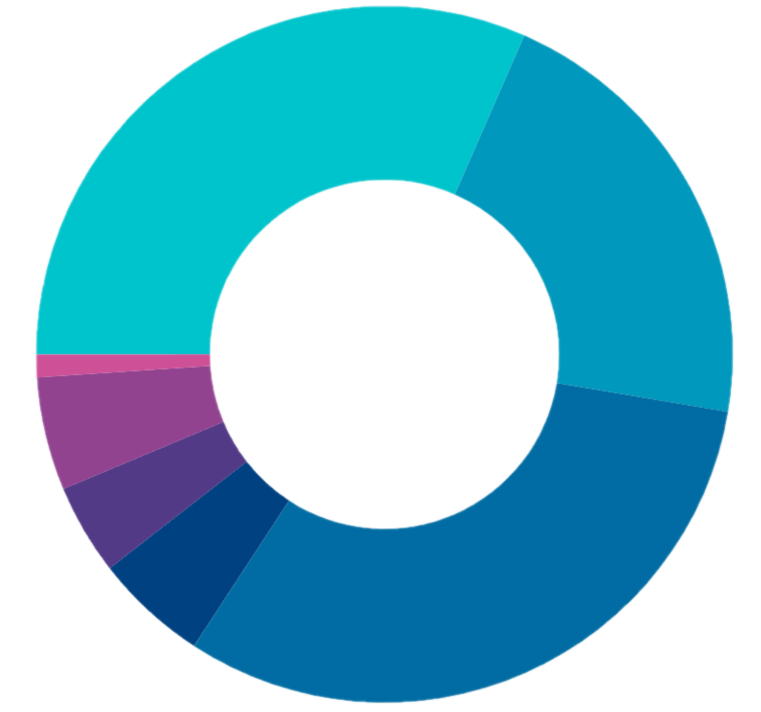
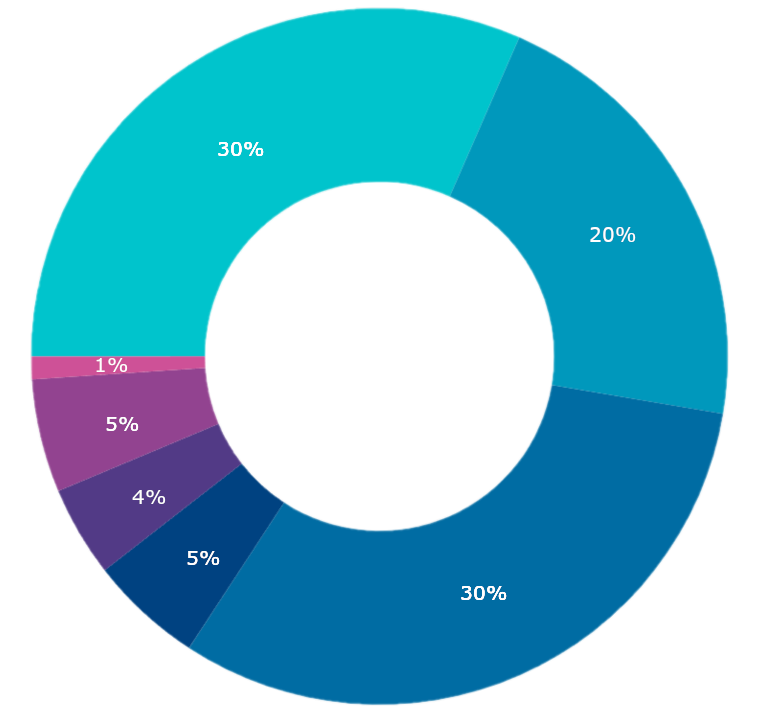
fix:[update]

diff --git a/components/Dividends.tsx b/components/Dividends.tsx
@@ -5,10 +5,49 @@ export const Dividends = (): JSX.Element => {
             <p className="w-10/12 mx-auto text-center ">Experience the joy of giving and receiving. Engage with our ecosystem, stake your
                 tokens, and earn dividends.
             </p>
-            <p className="text-center font-semibold text-2xl">Empowerment Tiers of Engagement:</p>
-            <div className='md:flex items-center justify-center w-3/4 m-auto'>
-            <div className="sketchfab-embed-wrapper">
-                    <iframe className="h-[300px] rounded-full" title="Galxy Passport" frameBorder="0" allow="autoplay; fullscreen; xr-spatial-tracking" src="https://sketchfab.com/models/e3cf2f1ed20b425b96bc0522cf91bb8c/embed"> </iframe>
+            <p className="text-center font-semibold text-2xl mb-5">Empowerment Tiers of Engagement:</p>
+            <div className='md:flex items-center justify-center flex-col md:w-3/4 m-auto gap-10'>
+                <div className="flex items-center justify-center gap-5 flex-wrap">
+                    <div className="sketchfab-embed-wrapper">
+                        <iframe className="h-[200px] w-[200px]  rounded-full" title="Galxy Passport" frameBorder="0" allow="autoplay; fullscreen; xr-spatial-tracking" src="https://sketchfab.com/models/e3cf2f1ed20b425b96bc0522cf91bb8c/embed"> </iframe>
+                        <p className="text-sm text-center text-[#4A4A4A]">
+                            <a href="https://sketchfab.com/SPARKERA?utm_medium=embed&utm_campaign=share-popup&utm_content=e3cf2f1ed20b425b96bc0522cf91bb8c" target="_blank" rel="nofollow noreferrer" className="font-bold text-[#1CAAD9]">
+                            SPARKERA
+                            </a>
+                            on
+                            <a href="https://sketchfab.com?utm_medium=embed&utm_campaign=share-popup&utm_content=e3cf2f1ed20b425b96bc0522cf91bb8c" target="_blank" rel="nofollow noreferrer" className="font-bold text-[#1CAAD9]">
+                            Sketchfab
+                            </a>
+                        </p>
+                    </div>
+                    <div className="md:w-1/2">
+                        <p className='text-xl font-medium'>Unity Tier:</p>
+                        This is yourstarting point
+                        within the Sumak Kawsay collective,
+                        offering an introduction to
+                        our values and initial dividends.
+                        It represents the foundational
+                        step towards inclusivity and
+                        shared purpose, aligning with our
+                        ethos and community spirit
+
+                    </div>
+                </div>
+                <div className="flex items-center justify-center gap-5 flex-wrap flex-col-reverse md:flex-row">
+                    <div className="md:w-1/2">
+                    <p className='text-xl font-medium'>Growth Tier:</p>
+                    For members increasing their
+                    involvement, this tier provides
+                    greater dividends and signifies a
+                    deeper commitment to our collective
+                    future. It represents a middle ground
+                    for those actively contributing to
+                    and engaging with our ecosystem is
+                    expansion.
+
+                    </div>
+                <div className="sketchfab-embed-wrapper">
+                    <iframe className="h-[200px] w-[200px] rounded-full" title="Galxy Passport" frameBorder="0" allow="autoplay; fullscreen; xr-spatial-tracking" src="https://sketchfab.com/models/878b1c9a2eed4f6d920173be532f784f/embed"> </iframe>
                     <p className="text-sm text-center text-[#4A4A4A]">
                         <a href="https://sketchfab.com/SPARKERA?utm_medium=embed&utm_campaign=share-popup&utm_content=e3cf2f1ed20b425b96bc0522cf91bb8c" target="_blank" rel="nofollow noreferrer" className="font-bold text-[#1CAAD9]">
                         SPARKERA
@@ -18,43 +57,35 @@ export const Dividends = (): JSX.Element => {
                             Sketchfab
                         </a>
                     </p>
-            </div>
-                <div className='p-5 md:w-3/4'>
-                    <ul className='flex flex-col w-full p-5 gap-5'>
-                        <li>
-                            <p className='text-xl font-medium'>Unity Tier:</p>
-                            This is yourstarting point
-                            within the Sumak Kawsay collective,
-                            offering an introduction to
-                            our values and initial dividends.
-                            It represents the foundational
-                            step towards inclusivity and
-                            shared purpose, aligning with our
-                            ethos and community spirit
-                        </li>
-                        <li>
-                            <p className='text-xl font-medium'>Growth Tier:</p>
-                            For members increasing their
-                            involvement, this tier provides
-                            greater dividends and signifies a
-                            deeper commitment to our collective
-                            future. It represents a middle ground
-                            for those actively contributing to
-                            and engaging with our ecosystem is
-                            expansion.
-                        </li>
-                        <li>
-                            <p className='text-xl font-medium'>Heritage Tier:</p>
-                            The highest level, rewarding
-                            our most committed members,
-                            symbolizing a significant ontribution to
-                            our vision and goals. This tier is
-                            for those aiming to create a
-                            meaningful, lasting impact, ensuring a
-                            legacy of prosperity, sustainability,
-                            and community well-being.
-                        </li>
-                    </ul>
+                </div>
+                </div>
+                <div className="flex items-center justify-center gap-5 flex-wrap">
+                    <div className="sketchfab-embed-wrapper">
+                        <iframe className="h-[200px] w-[200px]  rounded-full" title="Galxy Passport" frameBorder="0" allow="autoplay; fullscreen; xr-spatial-tracking" src="https://sketchfab.com/models/1b4123c147954bd6922b605cd664b57a/embed?ui_theme=dark"> </iframe>
+                        <p className="text-sm text-center text-[#4A4A4A]">
+                            <a href="https://sketchfab.com/SPARKERA?utm_medium=embed&utm_campaign=share-popup&utm_content=e3cf2f1ed20b425b96bc0522cf91bb8c" target="_blank" rel="nofollow noreferrer" className="font-bold text-[#1CAAD9]">
+                            SPARKERA
+                            </a>
+                            on
+                            <a href="https://sketchfab.com?utm_medium=embed&utm_campaign=share-popup&utm_content=e3cf2f1ed20b425b96bc0522cf91bb8c" target="_blank" rel="nofollow noreferrer" className="font-bold text-[#1CAAD9]">
+                            Sketchfab
+                            </a>
+                        </p>
+                    </div>
+                    <div className="md:w-1/2">
+                    <div>
+                    <p className='text-xl font-medium'>Heritage Tier:</p>
+                    The highest level, rewarding
+                    our most committed members,
+                    symbolizing a significant ontribution to
+                    our vision and goals. This tier is
+                    for those aiming to create a
+                    meaningful, lasting impact, ensuring a
+                    legacy of prosperity, sustainability,
+                    and community well-being.
+                </div>
+
+                    </div>
                 </div>
             </div>
         </div>

diff --git a/components/InfonCard.tsx b/components/InfonCard.tsx
@@ -3,11 +3,11 @@ import { CardIconLeft } from './CardIconLeft'
 
 export const InfoCard = (): JSX.Element => {
   const info = [
-    { title: 'Holistic Integration', description: 'We merge cutting-edge blockchain and AI technologies with ancient wisdom and sustainable practices to create a self-sufficient ecosystem that nurtures the planet and its inhabitants', icon: '/icon2.jpeg' },
-    { title: 'Community-Centric', description: 'At the heart of Sumak Kawsay is our global community. Participation, governance, and shared prosperity are fundamental Each member contributes to and benefits from the ecosystem is growth and sustainability.', icon: '/icon3.jpeg' },
-    { title: 'Environmental Regeneration', description: 'Our initiatives and technologies are designed with the Earth in mind. From renewable energy projects to regenerative agriculture, we aim to reverse environmental degradation and promote biodiversity.', icon: '/icon4.jpeg' },
-    { title: 'Technological Innovation', description: 'Leveraging blockchain and AI to ensure transparency, security, and efficiency. Our ecosystem empowers individuals and communities with tools and knowledge to foster technological advancements while maintaining ecological balance.', icon: '/icon1.jpeg' },
-    { title: 'Inclusive Economic Model', description: 'Our initiatives and technologies are designed with the Earth in mind. From renewable energy projects to regenerative agriculture, we aim to reverse environmental degradation and promote biodiversity.', icon: '/icon5.jpeg' }
+    { title: 'Holistic Integration', description: 'We merge cutting-edge blockchain and AI technologies with ancient wisdom and sustainable practices to create a self-sufficient ecosystem that nurtures the planet and its inhabitants', icon: '/sumak.png' },
+    { title: 'Community-Centric', description: 'At the heart of Sumak Kawsay is our global community. Participation, governance, and shared prosperity are fundamental Each member contributes to and benefits from the ecosystem is growth and sustainability.', icon: '/sumak2.png' },
+    { title: 'Environmental Regeneration', description: 'Our initiatives and technologies are designed with the Earth in mind. From renewable energy projects to regenerative agriculture, we aim to reverse environmental degradation and promote biodiversity.', icon: '/sumak3.png' },
+    { title: 'Technological Innovation', description: 'Leveraging blockchain and AI to ensure transparency, security, and efficiency. Our ecosystem empowers individuals and communities with tools and knowledge to foster technological advancements while maintaining ecological balance.', icon: '/sumak4.png' },
+    { title: 'Inclusive Economic Model', description: 'Our initiatives and technologies are designed with the Earth in mind. From renewable energy projects to regenerative agriculture, we aim to reverse environmental degradation and promote biodiversity.', icon: '/sumak5.png' }
   ]
   return (
     <div className='w-full mt-52 pt-12 gap-10 flex flex-col justify-center items-center'>

diff --git a/components/Marketplace.tsx b/components/Marketplace.tsx
@@ -1,3 +1,4 @@
+import Image from 'next/image'
 export const Marketplace = (): JSX.Element => {
   return (
         <div >
@@ -6,20 +7,9 @@ export const Marketplace = (): JSX.Element => {
                 revolution. Here, participants can interact using Ayni Coin to buy, sell services, and
                 products, creating a vibrant marketplace. Our approach centers on:
             </p>
-            <div className='md:flex items-center justify-center w-3/4 m-auto'>
-                <div className="sketchfab-embed-wrapper">
-                    <iframe className="h-[300px] rounded-full" title="Galxy Passport" frameBorder="0" allow="autoplay; fullscreen; xr-spatial-tracking" src="https://sketchfab.com/models/1b4123c147954bd6922b605cd664b57a/embed?ui_theme=dark"> </iframe>
-                    <p className="text-sm text-center text-[#4A4A4A]">
-                        <a href="https://sketchfab.com/SPARKERA?utm_medium=embed&utm_campaign=share-popup&utm_content=e3cf2f1ed20b425b96bc0522cf91bb8c" target="_blank" rel="nofollow noreferrer" className="font-bold text-[#1CAAD9]">
-                        SPARKERA
-                        </a>
-                        on
-                        <a href="https://sketchfab.com?utm_medium=embed&utm_campaign=share-popup&utm_content=e3cf2f1ed20b425b96bc0522cf91bb8c" target="_blank" rel="nofollow noreferrer" className="font-bold text-[#1CAAD9]">
-                            Sketchfab
-                        </a>
-                    </p>
-                </div>
-                <div className='p-5 md:w-3/4'>
+            <div className='md:flex items-center justify-center md:w-3/4 m-auto'>
+                <Image className='mx-auto' src='/Ecosystem-BLANK.png' alt='Ecosystem-BLANK' width={500} height={500}/>
+                <div className='w-full p-5 md:w-3/4'>
                     <ul className='flex flex-col w-full p-5 gap-5 list-decimal'>
                         <li>
                             <p className='text-xl font-medium'>Asset Tokenization:</p>

diff --git a/components/Fractional.tsx b/components/Fractional.tsx
@@ -1,3 +1,4 @@
+import Image from 'next/image'
 export const Fractional = (): JSX.Element => {
   return (
         <div >
@@ -11,7 +12,7 @@ export const Fractional = (): JSX.Element => {
                 evolving interests and needs of the community, supporting diverse lifestyles and
                 sustainable productive systems.
             </p>
-            <div className='md:flex place-items-center w-3/4 m-auto'>
+            <div className='md:flex place-items-center md:w-3/4 m-auto'>
                 <div className='p-5'>
                     <ul className='flex flex-col w-full p-5 gap-5'>
                         <li>
@@ -54,18 +55,7 @@ export const Fractional = (): JSX.Element => {
                         </li>
                     </ul>
                 </div>
-                <div className="sketchfab-embed-wrapper">
-                    <iframe className="h-[300px] rounded-full" title="Galxy Passport" frameBorder="0" allow="autoplay; fullscreen; xr-spatial-tracking" src="https://sketchfab.com/models/878b1c9a2eed4f6d920173be532f784f/embed"> </iframe>
-                    <p className="text-sm text-center text-[#4A4A4A]">
-                        <a href="https://sketchfab.com/SPARKERA?utm_medium=embed&utm_campaign=share-popup&utm_content=e3cf2f1ed20b425b96bc0522cf91bb8c" target="_blank" rel="nofollow noreferrer" className="font-bold text-[#1CAAD9]">
-                        SPARKERA
-                        </a>
-                        on
-                        <a href="https://sketchfab.com?utm_medium=embed&utm_campaign=share-popup&utm_content=e3cf2f1ed20b425b96bc0522cf91bb8c" target="_blank" rel="nofollow noreferrer" className="font-bold text-[#1CAAD9]">
-                            Sketchfab
-                        </a>
-                    </p>
-                </div>
+                <Image className='mx-auto' src="/blueSky.png" alt="blueSky" width={500} height={500}/>
             </div>
         </div>
   )

diff --git a/components/Ecosystem.tsx b/components/Ecosystem.tsx
@@ -4,9 +4,9 @@ import { CardWithIcon } from './CardWithIcon'
 
 export const Ecosystem = (): JSX.Element => {
   const info = [
-    { title: 'Sovereignty', description: 'Decentralized Governance, Asset tokenization, Dedicated Blockchain, Universal ID Passport, Enhanced Privacy and Security, Global Crisis Response, Regenerative Output, High Yield, Quality.', icon: '/icon8.jpeg' },
-    { title: 'Living and Virtual Platform', description: 'Smart Habitats, Global Marketplace, Advanced NFT & Metaverse, Biosphere 3.0, AI and Blockchain.', icon: '/icon7.jpeg' },
-    { title: 'Global Interdependence', description: 'Collective Treasure, Value Chains, Dividends, Articulation Interaction & Exchange, Financial System Transformation, Unified Actions for Life and Earth', icon: '/icon6.jpeg' }
+    { title: 'Sovereignty', description: 'Decentralized Governance, Asset tokenization, Dedicated Blockchain, Universal ID Passport, Enhanced Privacy and Security, Global Crisis Response, Regenerative Output, High Yield, Quality.', icon: '/Ecosystem1.png' },
+    { title: 'Living and Virtual Platform', description: 'Smart Habitats, Global Marketplace, Advanced NFT & Metaverse, Biosphere 3.0, AI and Blockchain.', icon: '/Ecosystem2.png' },
+    { title: 'Global Interdependence', description: 'Collective Treasure, Value Chains, Dividends, Articulation Interaction & Exchange, Financial System Transformation, Unified Actions for Life and Earth', icon: '/Ecosystem3.png' }
   ]
   return (
     <Element name='ecosystem' className='py-20'>

diff --git a/components/Passport.tsx b/components/Passport.tsx
@@ -8,7 +8,7 @@ export const Passport = (): JSX.Element => {
                 resources, unifying community members in our shared vision for a sustainable
                 future
             </p>
-            <div className='flex flex-col lg:flex-row w-3/4 self-center place-items-center p-5'>
+            <div className='flex flex-col lg:flex-row md:w-3/4 self-center place-items-center p-5'>
                 <div className='p-5 flex flex-col items-center gap-6'>
                 <p>Benefits and Security</p>
                 <ul className='flex  flex-col gap-5 list-disc pl-5'>
@@ -37,7 +37,7 @@ export const Passport = (): JSX.Element => {
                     </li>
                 </ul>
                 </div>
-                <Image className='rounded-full' src='/passport.jpeg' alt='passport' width={300} height={300}/>
+                <Image className='drop-shadow-2xl shadow-shadow' src='/passport 2.png' alt='passport' width={300} height={300}/>
             </div>
         </div>
   )

diff --git a/components/Tokenomics.tsx b/components/Tokenomics.tsx
@@ -57,7 +57,7 @@ export const Tokenomics = (): JSX.Element => {
             <h1 className='text-3xl font-bold'>Tokenomics</h1>
             <h3 className='text-xl font-semibold mb-2'>Token Distribution and Unity Halving Schedule:</h3>
             <Card className='bg-background/40 backdrop-blur p-6 border shadow-sm md:grid grid-cols-2 place-content-center place-items-center'>
-              <Image className='w-[410px] h-[390px] mt-7 rounded-full' src='/grafica.png' width={400} height={400} alt='graph' />
+              <Image className='w-[410px] md:h-[390px] mt-7 rounded-full' src='/grafica.png' width={400} height={400} alt='graph' />
               <ListCard className=''>
               {items.map((item, index) => (
                   <ListItem className={`border-b-2 ${item.border}`} key={index}>

diff --git a/components/InfoConten.tsx b/components/InfoConten.tsx
@@ -57,7 +57,7 @@ const Item = [
 
 const InfoContent = (): React.JSX.Element => {
   return (
-    <Element name='faq' className='w-full flex md:flex-col items-center py-20'>
+    <Element name='faq' className='w-full flex md:flex-col items-center py-20 flex-wrap justify-center'>
       <h1 className='text-3xl font-bold text-center mb-5'>Frequently Asked Questions</h1>
       <Card className='z-10 w-10/12 bg-background/50 border shadow-sm backdrop-filter backdrop-blur-lg'>
         <Accordion type="single" collapsible className="p-4">

diff --git a/app/globals.css b/app/globals.css
@@ -25,6 +25,7 @@
     --input: 240 5.9% 90%;
     --ring: 240 5.9% 10%;
     --radius: 0.5rem;
+    --shadow: 217.89 64.88% 40.2%;
   }
 
   .dark {
@@ -47,6 +48,7 @@
     --border: 283.33 42.86% 32.94%;
     --input: 240 3.7% 15.9%;
     --ring: 240 4.9% 83.9%;
+    --shadow: 283.33 42.86% 32.94%;
   }
 }
 

diff --git a/tailwind.config.ts b/tailwind.config.ts
@@ -20,6 +20,7 @@ module.exports = {
     extend: {
       colors: {
         border: 'hsl(var(--border))',
+        shadow: 'hsl(var(--shadow))',
         input: 'hsl(var(--input))',
         ring: 'hsl(var(--ring))',
         background: 'hsl(var(--background)) ',
